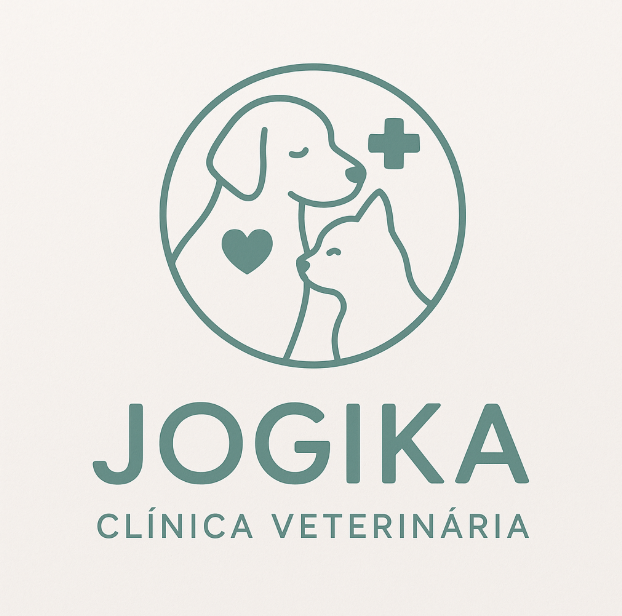
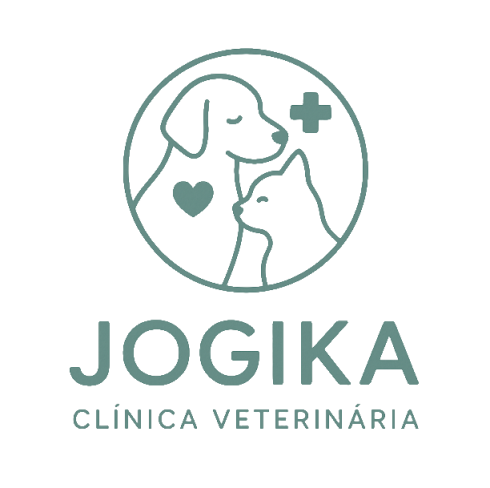
updateconsultaecores

diff --git a/Clinica_Veterinária/index.html b/Clinica_Veterinária/index.html
@@ -9,7 +9,7 @@
 </head>
 <body>
     <header>
-        <img src="imagens/JOGIKA.png" class="img-media" style="height: 60px; width: auto;"> 
+        <img src="imagens/JOGIKA.png" style="height: 120px; width: auto;"> 
         <h1>Clínica Veterinária JOGIKA</h1>
         <p>Cuidando com amor do seu pet!</p>
     </header>
@@ -20,6 +20,7 @@
             <li><a href="#servicos">Serviços</a></li>
             <li><a href="#equipe">Equipe</a></li>
             <li><a href="#contato">Contato</a></li>
+            <li><a href="#AgendeumaConsulta">Agende uma Consulta</a></li>
         </ul>
     </nav>
 
@@ -32,14 +33,36 @@
             <img src="imagens/Slide-3.webp" alt="Imagem da clínica 4">
             <button id="next">&gt;</button>
         </div>
-        <h2>Sobre a Clínica</h2>
-        <p>Na Clínica Veterinária JOGIKA, seu pet é tratado com carinho, respeito e profissionalismo. Oferecemos uma estrutura moderna, atendimento personalizado e uma equipe apaixonada por animais.</p>
-        <br>
+        <br><br>
+        <center><h2>Sobre a Clínica</h2>
+        <p>Fundada em 2015, a Clínica Veterinária JOGIKA nasceu com o propósito de oferecer um atendimento veterinário humanizado, acessível e de alta qualidade. Desde então, temos cuidado de centenas de pets com carinho, respeito e profissionalismo, sempre priorizando o bem-estar dos animais e a tranquilidade de seus tutores.
+        <br><br>
+        Contamos com uma estrutura moderna, equipada com tecnologia de ponta e um ambiente acolhedor que proporciona conforto tanto para os pets quanto para seus donos. Nosso atendimento é totalmente personalizado e realizado por uma equipe apaixonada por animais, formada por profissionais capacitados e em constante atualização.
+        <br><br>
+        Na JOGIKA, acreditamos que cada vida importa — por isso, oferecemos um cuidado completo e individualizado, com dedicação em cada consulta, procedimento e orientação.
+        </p>
+        <br><br>
         <h2>Nossa Missão</h2>
-        <p>Oferecer cuidados veterinários com qualidade e amor, promovendo a saúde e bem-estar dos animais.</p>
+        <p>Oferecer cuidados veterinários com excelência, carinho e responsabilidade, promovendo a saúde, a qualidade de vida e o bem-estar dos animais, sempre com foco no atendimento humanizado e na confiança dos tutores.</p>
         <br>
         <h2>Nossa Visão</h2>
-        <p>Ser referência em atendimento veterinário humanizado e eficiente.</p>
+        <p>Ser reconhecida como referência em medicina veterinária na região, unindo inovação, empatia e compromisso ético para transformar a vida dos animais e de seus tutores.</p>
+        <br><br> 
+        <h2>Nossos Valores</h2>
+        
+         <p>❤ Amor e respeito pelos animais
+            <br>
+            👩⚕ Atendimento humanizado e personalizado
+            <br>
+            🧠 Atualização constante e excelência técnica
+            <br>
+            ⚖ Ética, responsabilidade e transparência
+            <br>
+            🌿 Bem-estar animal como prioridade
+            <br>
+            🤝 Relação de confiança com os tutores
+        </p>
+    </center>
     </section>
 
     <section id="servicos">
@@ -78,6 +101,52 @@
             </div>
         </div>
     </section>
+    
+ <section id="AgendeumaConsulta">
+        <h2>Agende uma Consulta</h2>
+        <form id="contatoForm">
+            <h3>Dados do Tutor</h3>
+            <label for="nome">Nome Completo do Tutor:</label>
+            <input type="text" id="nomePet" name="nomePet" required>
+
+            <label for="telefone">Telefone/WhatsApp:</label>
+            <input type="text" id="telefone" name="telefone" required>
+            
+            <label for="email">Email:</label>
+            <input type="text" id="Email" name="Email" required>
+
+            <br><br>
+            <h3>Dados do Pet</h3>
+            <br>
+            <label for="nome">Nome do Pet:</label>
+            <input type="text" id="nomePet" name="nomePet" required>
+
+            <label for="especie">Espécie:</label>
+            <input type="text" id="especie"  value="cão/gato/coelho..."  name="especie" required>
+            
+            <label for="raça">Raça/Porte:</label>
+            <input type="text" id="raça" name="raça" required>
+            
+            <label for="sexo">Sexo:</label>
+            <input type="text" id="sexo" name="sexo" required>
+
+            <label for="idade">Idade/Data de Nascimento:</label>
+            <input id="idade" name="idade"  required>
+
+            <br><br>
+            <h3>Motivo da Consulta</h3>
+            <textarea name="motivo" placeholder="Vacina, sintoma, check‑up…" required></textarea>
+            <input type="datetime-local" name="data_preferida">
+
+              <label>
+                <input type="checkbox" required>
+                Autorizo o uso dos meus dados para fins de agendamento (LGPD).
+              </label>
+            
+            <button type="submit">Agendar</button>
+            <p id="mensagemSucesso" style="display: none; color: green;">Agendamento realizado com sucesso!</p>
+        </form>
+    </section>
 
     <section id="contato">
         <h2>Contato</h2>
@@ -100,7 +169,6 @@
             <p id="mensagemSucesso" style="display: none; color: green;">Mensagem enviada com sucesso!</p>
         </form>
     </section>
-
     <footer>
         <p>&copy; 2025 Clínica Veterinária JOGIKA - Todos os direitos reservados.</p>
     </footer>

diff --git a/Clinica_Veterinária/style.css b/Clinica_Veterinária/style.css
@@ -28,7 +28,7 @@ header img {
 
 header h1 {
   margin: 10px 0;
-  color: #4CAF50;
+  color: #66CDAA		;
 }
 
 header p {
@@ -37,7 +37,7 @@ header p {
 
 /* Navegação */
 nav {
-  background-color: #4CAF50;
+  background-color: #66CDAA	;
   padding: 10px 0;
 }
 
@@ -89,13 +89,19 @@ nav a:hover {
   position: absolute;
   top: 50%;
   transform: translateY(-50%);
-  background: rgba(76, 175, 80, 0.8);
+  background: #66CDAA;
   color: white;
   border: none;
   font-size: 2rem;
   padding: 10px;
   cursor: pointer;
+  transition: box-shadow 0.3s ease;
 }
+
+.carousel button:hover {
+  box-shadow: 0 4px 12px #008080	; /* sombra ao passar o mouse */
+}
+
 
 #prev {
   left: 10px;
@@ -114,7 +120,7 @@ section {
 
 section h2 {
   margin-bottom: 15px;
-  color: #4CAF50;
+  color: #66CDAA	;
 }
 
 /* Lista de serviços */
@@ -124,7 +130,7 @@ section h2 {
 
 #servicos li::before {
   content: '✔ ';
-  color: #4CAF50;
+  color: #66CDAA		;
 }
 
 /* Equipe */
@@ -169,7 +175,7 @@ form textarea {
 
 form button {
   margin-top: 15px;
-  background-color: #4CAF50;
+  background-color: #66CDAA		;
   color: white;
   border: none;
   padding: 10px;
@@ -179,12 +185,12 @@ form button {
 }
 
 form button:hover {
-  background-color: #45a049;
+  background-color: #66CDAA		;
 }
 
 /* Rodapé */
 footer {
-  background-color: #4CAF50;
+  background-color: #66CDAA		;
   color: white;
   text-align: center;
   padding: 15px;
@@ -198,7 +204,7 @@ footer {
   right: 30px;
   padding: 10px 15px;
   font-size: 18px;
-  background-color: #4CAF50;
+  background-color: #66CDAA		;
   color: white;
   border: none;
   border-radius: 50%;
@@ -207,5 +213,5 @@ footer {
 }
 
 #btnTopo:hover {
-  background-color: #388E3C;
+  background-color: #66CDAA		;
 }
